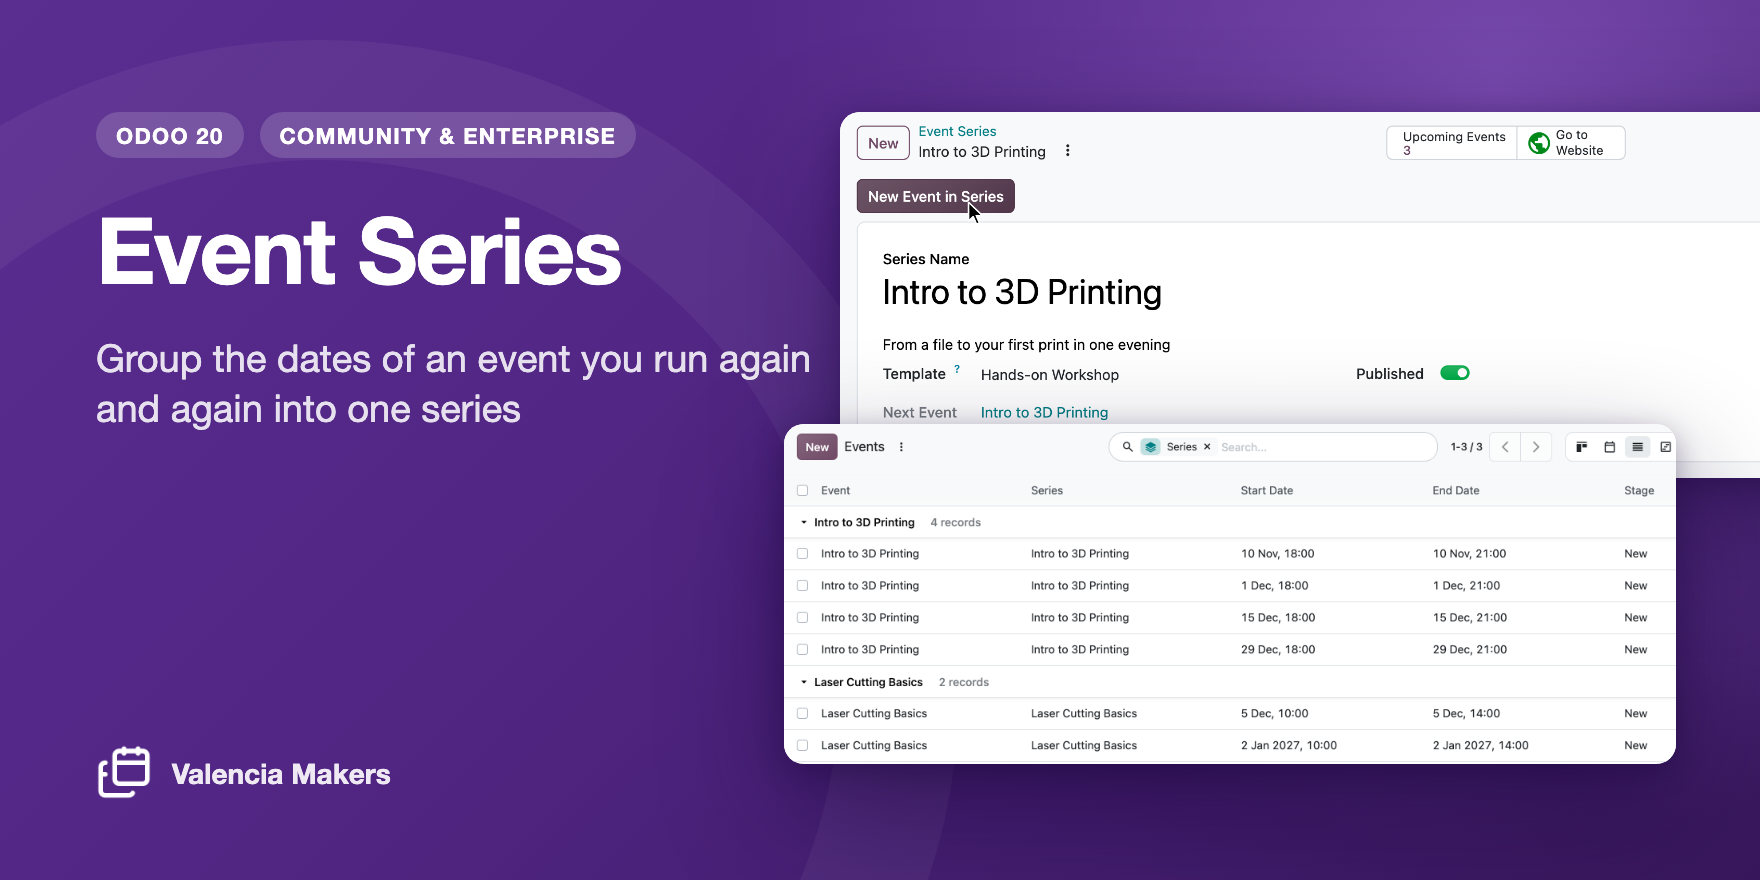
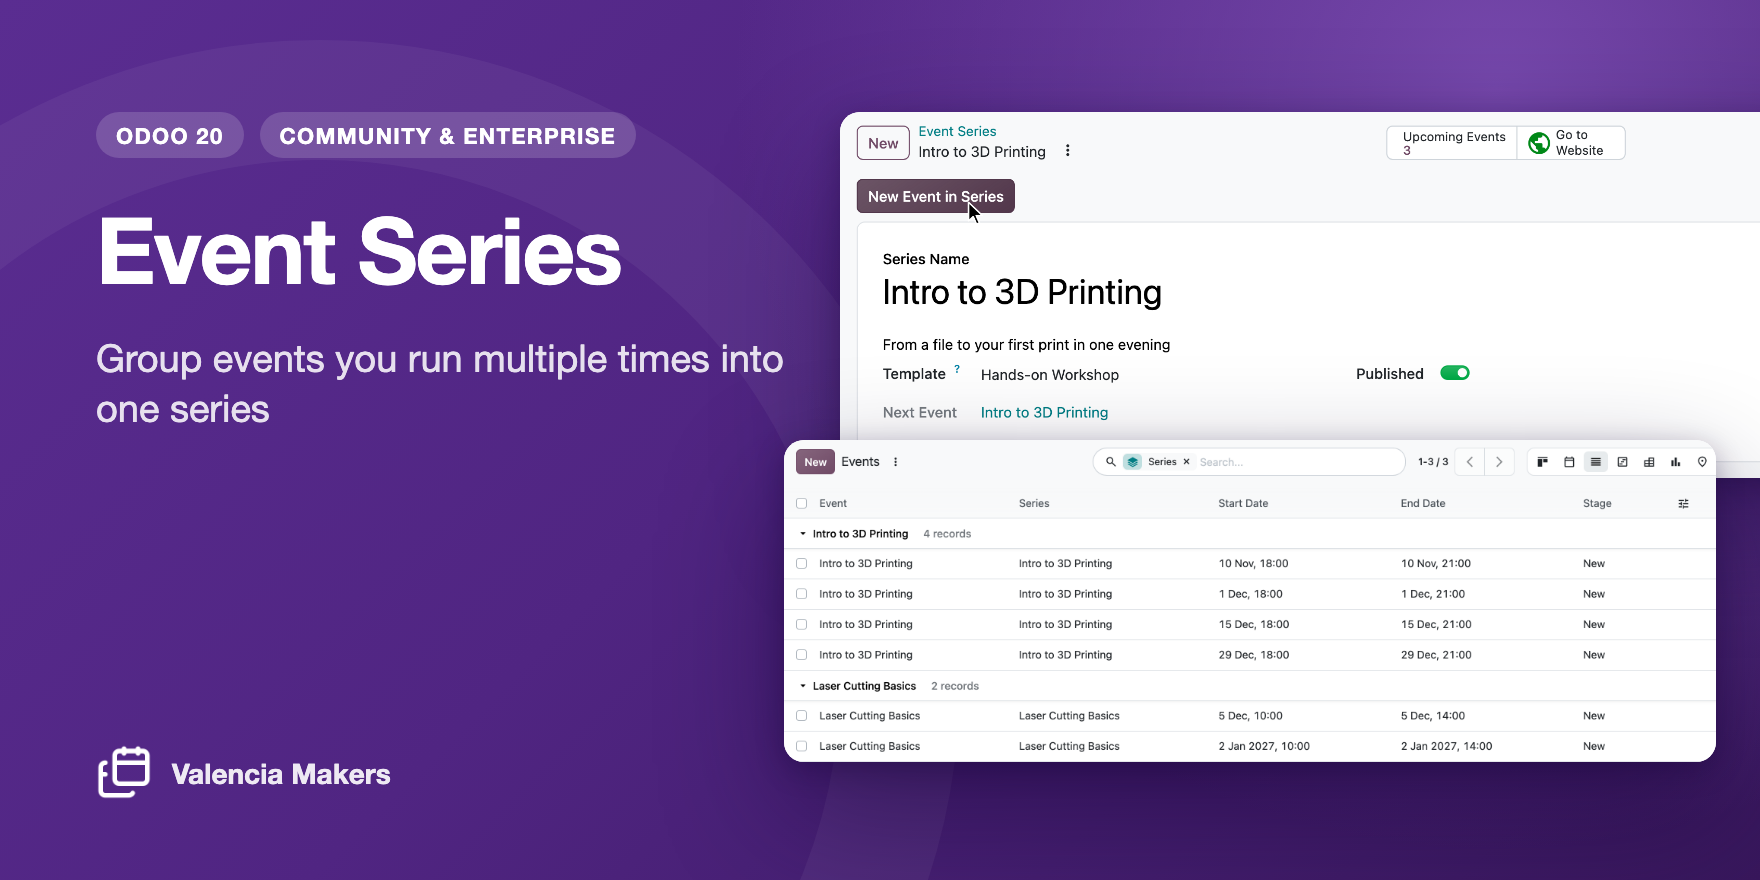
Reword vmk_event_series' summary; show the whole list on its cover
- Summary: "Group events you run multiple times into one series", in the
  manifest, the cover, the manual's opening line, and the name test.
- es and ca carry the new wording; the other 19 catalogues regenerated
  by odev i18n fill, which left the summary blank there as before.
- The cover's front card shows the whole grouped events list at 0.38,
  where it was cropped at the Stage column.

diff --git a/tools/covers/vmk_event_series.html b/tools/covers/vmk_event_series.html
@@ -9,7 +9,7 @@
     <div class="text">
         <div class="badges"><span class="badge">Odoo 20</span><span class="badge">Community &amp; Enterprise</span></div>
         <h1>Event Series</h1>
-        <p class="tagline">Group the dates of an event you run again and again into one series</p>
+        <p class="tagline">Group events you run multiple times into one series</p>
     </div>
     <div class="brand"><img src="../../vmk_event_series/static/description/icon.png" alt="">Valencia Makers</div>
     <!-- Behind: the series' form (984x351 CSS px at 2x) at 0.52, bleeding off the right edge. -->
@@ -17,11 +17,11 @@
         <img src="../../vmk_event_series/static/description/main_screenshot.png"
              style="width: 512px; left: 0; top: 0;" alt="">
     </div>
-    <!-- In front: the events list grouped by series (1226x423 CSS px at 2x) at 0.4, cut after the
-         Stage column's first letters so the dates keep their room, 28px below the form. -->
-    <div class="shot" style="left: 392px; top: 212px; width: 446px; height: 170px;">
+    <!-- In front: the whole events list grouped by series (1226x423 CSS px at 2x) at 0.38,
+         overlapping the form's lower edge. -->
+    <div class="shot" style="left: 392px; top: 220px; width: 466px; height: 161px;">
         <img src="../../vmk_event_series/static/description/events_by_series.png"
-             style="width: 490px; left: 0; top: 0;" alt="">
+             style="width: 466px; left: 0; top: 0;" alt="">
     </div>
 </div>
 </body>

diff --git a/vmk_event_series/tests/test_translations.py b/vmk_event_series/tests/test_translations.py
@@ -29,7 +29,7 @@ class TestModuleNameTranslation(TransactionCase):
     I18N = Path(__file__).resolve().parent.parent / "i18n"
     MODULE_METADATA = (
         "Event Series",
-        "Group the dates of an event you run again and again into one series",
+        "Group events you run multiple times into one series",
     )
 
     def _translation(self, catalogue, msgid):

diff --git a/vmk_event_series/__manifest__.py b/vmk_event_series/__manifest__.py
@@ -3,7 +3,7 @@
 
 {
     "name": "Event Series",
-    "summary": "Group the dates of an event you run again and again into one series",
+    "summary": "Group events you run multiple times into one series",
     "version": "20.0.1.0.0",
     "author": "Valencia Makers",
     "license": "LGPL-3",

diff --git a/vmk_event_series/doc/index.rst b/vmk_event_series/doc/index.rst
@@ -1,4 +1,4 @@
-Group the dates of an event you run again and again, such as a monthly workshop, into one series.
+Group events you run multiple times, such as a monthly workshop, into one series.
 
 In standard Odoo, a workshop you run every month is a dozen unrelated events. This module groups
 them into one series. Each date stays an ordinary event, with its own tickets, seats, and
